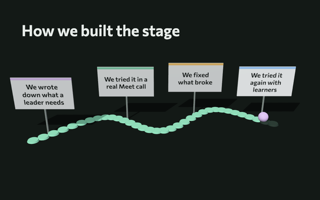
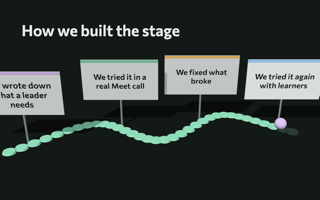
Kinetic slides read at Meet's stage size: closer cameras and larger words for the path, loop, dominoes, timeline, and plants
Found running every kind in a real Meet call (rsz-mhji-hmq, a leader and a
learner, November 26, 2026): with the panel open, the stage is about 800
pixels wide, and these five kinds' words were too small there. Every kind,
Back, a picture, and the learner's stage following all passed in that call.

Claude-Session: https://claude.ai/code/session_01FPuSAnNq2sUAXmYZ4YGZJH

Changed region(s): [[0.0, 0.27, 1.0, 0.78]]

diff --git a/assets/kinetic-kit.js b/assets/kinetic-kit.js
@@ -338,8 +338,8 @@
       var at = curve.getPoint(stops[i]), g = new T.Group();
       var post = new T.Mesh(new T.CylinderGeometry(0.05, 0.05, 1.4, 10), new T.MeshStandardMaterial({ color: '#8a958f' }));
       post.position.y = 0.7; post.castShadow = true; g.add(post);
-      var c = card(T, point, i, { w: 3.0, h: 1.7, d: 0.06, size: 74, most: 3 });
-      c.position.y = 1.4 + 0.85; g.add(c);
+      var c = card(T, point, i, { w: 3.5, h: 1.95, d: 0.06, size: 74, most: 3 });
+      c.position.y = 1.4 + 0.97; g.add(c);
       g.position.set(at.x, 0, at.z - 0.35); w.scene.add(g);
       var it = piece(function (p) { var e = easeOut(clamp(p * 1.4 - 0.25)); g.visible = p > 0; g.scale.set(1, Math.max(0.001, e), 1); c.material[4].color.setScalar(i < beat - 1 ? 0.78 : 1); });
       items.push(it);
@@ -349,8 +349,8 @@
     var walker = new T.Mesh(new T.SphereGeometry(0.28, 28, 20), new T.MeshStandardMaterial({ color: ACCENTS[0], roughness: 0.4 }));
     walker.castShadow = true; w.scene.add(walker);
     var trav = { t: 0, from: 0, to: 0, p: 1 };
-    w.camera.position.set(0, 9.6, 19.5);
-    w.camera.lookAt(0, 1.1, 0.6);
+    w.camera.position.set(0, 8.4, 16.8);
+    w.camera.lookAt(0, 1.3, 0.6);
     return kind(w, items, function (b, now) {
       beat = b; upto(signs, b);
       var goal = stops[Math.max(0, b - 1)];
@@ -378,7 +378,7 @@
       var bead = new T.Mesh(new T.SphereGeometry(0.09, 10, 8), new T.MeshStandardMaterial({ color: '#3d4842' }));
       bead.position.set(p.x, 0.09, p.z); w.scene.add(bead); beads.push({ m: bead, a: a });
     }
-    var cw = Math.min(2.7, 15 / n);
+    var cw = Math.min(3.4, 16 / n);
     var stations = points.map(function (point, i) {
       var p = pos(ang(i)), g = new T.Group(), c = card(T, point, i, { w: cw, h: cw * 0.6, size: 80, most: 3 });
       c.position.y = cw * 0.3 + 0.15; g.add(c); g.position.set(p.x, 0, p.z); w.scene.add(g);
@@ -390,8 +390,8 @@
     var marker = new T.Mesh(new T.SphereGeometry(0.24, 24, 16), new T.MeshStandardMaterial({ color: ACCENTS[2], roughness: 0.35 }));
     marker.castShadow = true; w.scene.add(marker);
     var trav = { a: ang(0), from: ang(0), to: ang(0), p: 1 }, lit = ang(0);
-    w.camera.position.set(0, 10.4, 16.2);
-    w.camera.lookAt(0, 1.4, -0.4);
+    w.camera.position.set(0, 9.2, 14.2);
+    w.camera.lookAt(0, 1.3, -0.2);
     return kind(w, items, function (b, now) {
       only(stations, b);
       stations.forEach(function (s, i) { s.seen = i < b - 1; });
@@ -433,7 +433,7 @@
     return kind(w, items, function (b, now) {
       doms.forEach(function (d, i) { d.it.to = i < b - 1 ? 1 : 0; });
       var c = doms[Math.max(0, b - 1)];
-      cam.to([c.x + 4.6, 7.6, c.z + 15], [c.x, 1.9, c.z - 0.6], now);
+      cam.to([c.x + 3.8, 6.6, c.z + 12.2], [c.x, 1.7, c.z - 0.6], now);
     }, function (dt, t, still) { return cam.step(dt, still); });
   };
 
@@ -527,7 +527,7 @@
   // Plants grow: each point is a pot whose stem rises, leaves open, and the
   // point's words bloom at the top.
   KINDS.grow = function (T, points) {
-    var beat = 0, w = world(T), n = points.length, items = [], span = Math.min(2.9, 13.5 / n), tw = Math.min(2.7, span * 0.95);
+    var beat = 0, w = world(T), n = points.length, items = [], span = Math.min(3.2, 13.5 / n), tw = Math.min(3.1, span * 0.97);
     points.forEach(function (point, i) {
       var x = (i - (n - 1) / 2) * span, hgt = 1.3 + (n > 1 ? i / (n - 1) : 0) * 1.1;
       var pot = new T.Mesh(new T.CylinderGeometry(0.55, 0.42, 0.75, 28), new T.MeshStandardMaterial({ color: '#B98A6E', roughness: 0.85 }));
@@ -548,8 +548,8 @@
         c.visible = bp > 0; c.scale.setScalar(Math.max(0.001, bp)); c.position.set(x - sway * h, 0.75 + h + tw * 0.31 * bp, 0.05); c.rotation.z = sway;
       }));
     });
-    w.camera.position.set(0, 4.2, 17.5);
-    w.camera.lookAt(0, 2.75, 0);
+    w.camera.position.set(0, 4.2, 16);
+    w.camera.lookAt(0, 2.8, 0);
     return kind(w, items, function (b) { beat = b; upto(items, b); }, function (dt, t, still) { return !still; });
   };
 
@@ -566,11 +566,11 @@
       var x = x0 + i * gap, m = /^([^:]{1,18}):\s+(.+)$/.exec(point.words), when = m ? m[1] : '', words = m ? m[2] : point.words;
       var dot = new T.Mesh(new T.CylinderGeometry(0.22, 0.22, 0.12, 24), new T.MeshStandardMaterial({ color: accent(i), roughness: 0.4 }));
       dot.castShadow = true; w.scene.add(dot);
-      var c = card(T, { words: words, img: point.img }, i, { w: 3.4, h: 2.1, d: 0.05, size: 76, most: 4 }); w.scene.add(c);
+      var c = card(T, { words: words, img: point.img }, i, { w: 3.6, h: 2.2, d: 0.05, size: 78, most: 4 }); w.scene.add(c);
       var tag = null;
       if (when) {
-        tag = new T.Mesh(new T.PlaneGeometry(2.6, 0.54), new T.MeshBasicMaterial({ map: face(T, when, { w: 520, h: 108, bg: 'transparent', fg: '#C1CAC5', size: 60, most: 1, pad: 0.02, weight: 500 }), transparent: true, toneMapped: false, depthWrite: false }));
-        tag.position.set(x, 0.32, 1.25); w.scene.add(tag);
+        tag = new T.Mesh(new T.PlaneGeometry(3.0, 0.62), new T.MeshBasicMaterial({ map: face(T, when, { w: 600, h: 124, bg: 'transparent', fg: '#E8EDEA', size: 72, most: 1, pad: 0.02, weight: 600 }), transparent: true, toneMapped: false, depthWrite: false }));
+        tag.position.set(x, 0.5, 1.5); w.scene.add(tag);
       }
       items.push(piece(function (p) {
         c.material[4].color.setScalar(i < beat - 1 ? 0.78 : 1);
@@ -585,7 +585,7 @@
     return kind(w, items, function (b, now) {
       beat = b; upto(items, b);
       var x = n <= 3 ? 0 : xs[Math.max(0, b - 1)] - Math.sign(xs[Math.max(0, b - 1)]) * Math.min(Math.abs(xs[Math.max(0, b - 1)]), gap * 0.5);
-      cam.to([x + 1.2, 3.6, n <= 3 ? 17 : 15], [x, 1.3, 0], now);
+      cam.to([x + 1.0, 3.4, n <= 3 ? 15 : 13], [x, 1.35, 0], now);
     }, function (dt, t, still) { return cam.step(dt, still); });
   };
 

diff --git a/addon/index.html b/addon/index.html
@@ -235,7 +235,7 @@
   <script src="/assets/signals.js?v=20261118r" defer></script>
   <script src="/assets/vendor/deck-kit.js?v=20261112v" defer></script>
   <script src="/assets/slides-lib.js?v=20261126b" defer></script>
-  <script src="/assets/kinetic-kit.js?v=20261126b" defer></script>
+  <script src="/assets/kinetic-kit.js?v=20261126c" defer></script>
   <script src="/assets/slide-editor.js?v=20261126b" defer></script>
   <script src="/assets/show-lib.js?v=20261118a" defer></script>
   <script src="/assets/show-view-lib.js?v=20261112b" defer></script>

diff --git a/session/index.html b/session/index.html
@@ -193,7 +193,7 @@
   <script src="/assets/question-view.js?v=20261106a" defer></script>
   <script src="/assets/board-lib.js" defer></script>
   <script src="/assets/slides-lib.js?v=20261126b" defer></script>
-  <script src="/assets/kinetic-kit.js?v=20261126b" defer></script>
+  <script src="/assets/kinetic-kit.js?v=20261126c" defer></script>
   <script src="/assets/slide-editor.js?v=20261126b" defer></script>
   <script src="/assets/slide-model.js?v=20261126b" defer></script>
   <script src="/assets/github-block.js?v=20261107a" defer></script>

diff --git a/addon/stage/index.html b/addon/stage/index.html
@@ -215,7 +215,7 @@
   <script src="/assets/code-lib.js" defer></script>
   <script src="/assets/ui.js?v=20261112b" defer></script>
   <script src="/assets/slides-lib.js?v=20261126b" defer></script>
-  <script src="/assets/kinetic-kit.js?v=20261126b" defer></script>
+  <script src="/assets/kinetic-kit.js?v=20261126c" defer></script>
   <script src="/assets/slide-editor.js?v=20261126b" defer></script>
   <script src="/assets/slide-model.js?v=20261126b" defer></script>
   <script src="/assets/slide-studio.js?v=20261126b" defer></script>

diff --git a/cohort/index.html b/cohort/index.html
@@ -356,7 +356,7 @@
   <script src="/assets/path-lib.js" defer></script>
   <script src="/assets/showcase-lib.js?v=20261022a" defer></script>
   <script src="/assets/slides-lib.js?v=20261126b" defer></script>
-  <script src="/assets/kinetic-kit.js?v=20261126b" defer></script>
+  <script src="/assets/kinetic-kit.js?v=20261126c" defer></script>
   <script src="/assets/slide-editor.js?v=20261126b" defer></script>
   <script src="/assets/show-lib.js?v=20261118a" defer></script>
   <script src="/assets/recognition-lib.js" defer></script>
